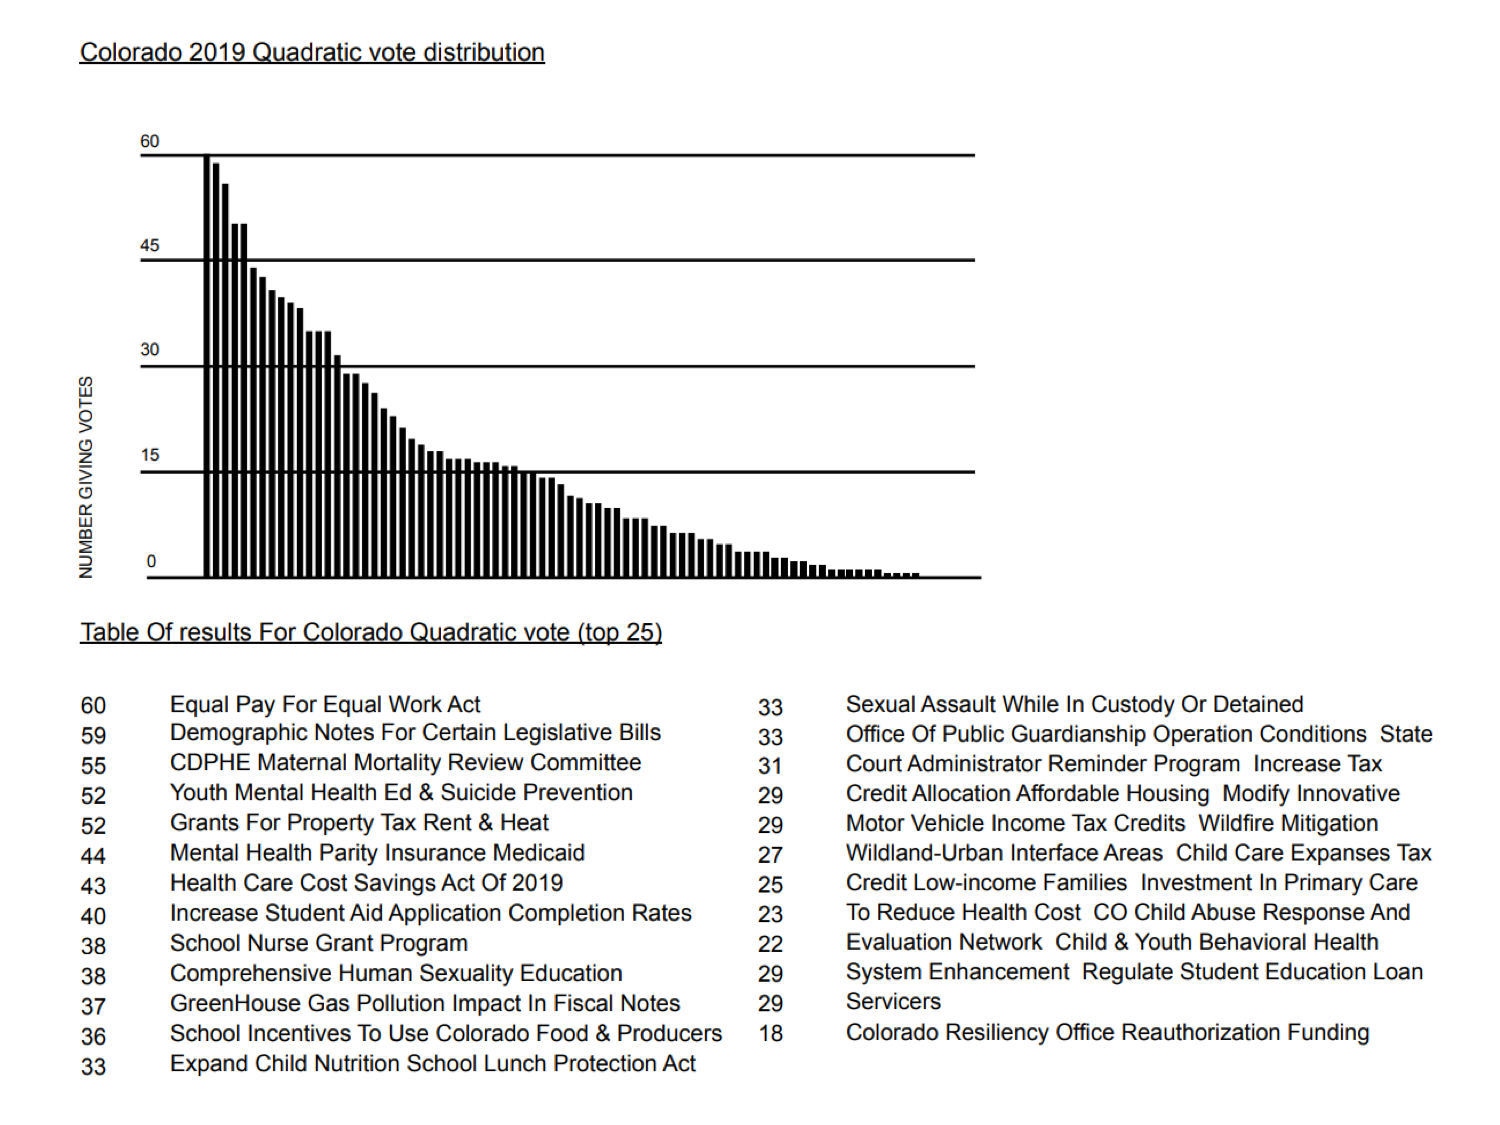
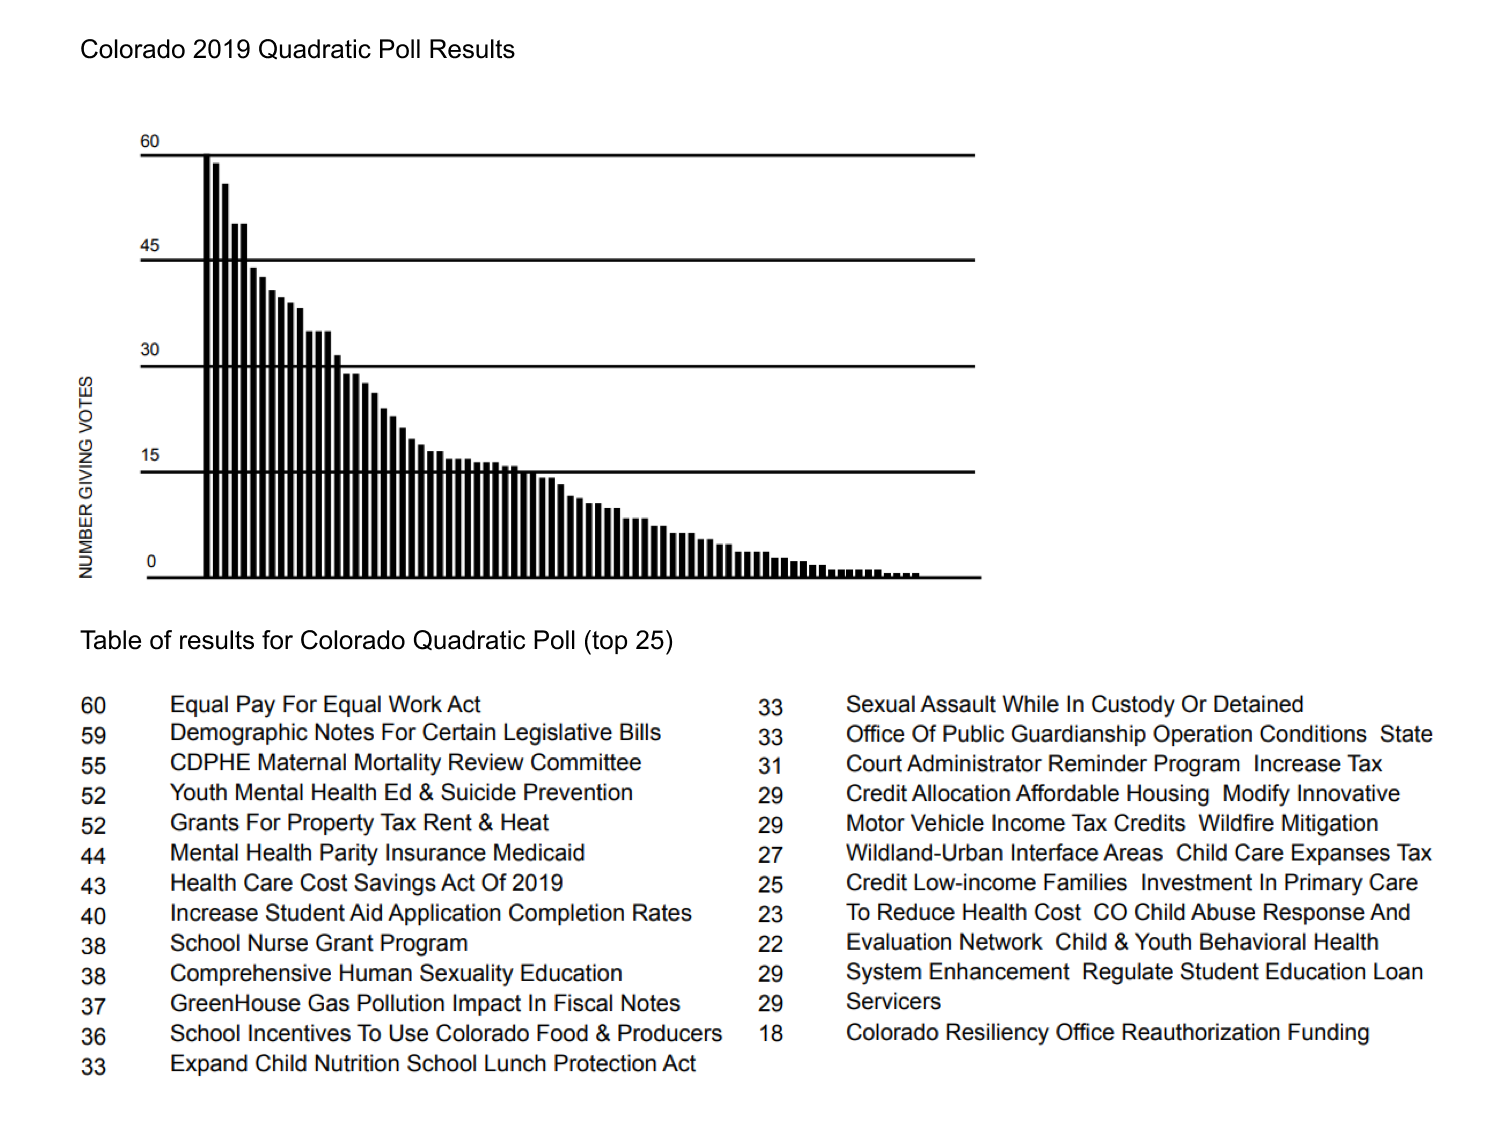
edit QV language

Changed region(s): [[0.0613, 0.5289, 0.46, 0.5911], [0.0307, 0.0311, 0.368, 0.0622]]

diff --git a/src/site/media/announcements/2023-04-11_colorado-qv-wiki.md b/src/site/media/announcements/2023-04-11_colorado-qv-wiki.md
@@ -17,7 +17,7 @@ Working with RadicalxChange Foundation and Democracy Earth Foundation, the Democ
 
 In June 2020, officials in Colorado’s executive branch decided to bring QV into a new context. As part of an effort led by Ben Henderson and Hana Sayeed from the Governor’s Office of Operations, RadicalxChange Foundation implemented a process by which interagency working groups used QV to prioritize their yearly goals, using basic [spreadsheet templates](https://drive.google.com/drive/folders/1trnAJ1XOLyZk-0mgedZ3G98MQH3xrL0m?usp=sharing) from RadicalxChange Foundation.
 
-The process began with a test vote on a moot issue – favorite Colorado sports teams – to familiarize the voters with QV. Then, working group participants had an opportunity to argue and hear arguments for different proposed ‘20/’21 priorities. Finally, they used live QV ballots to help determine what the group felt most strongly about.
+The process began with a test poll on a moot issue – favorite Colorado sports teams – to familiarize the participants with QV. Then, working group participants had an opportunity to argue and hear arguments for different proposed ‘20/’21 priorities. Finally, they used live QV ballots to help determine what the group felt most strongly about.
 
 Seeing the benefits of the process in these interagency groups, several agency leaders began using it for group decisions in other contexts.
 
@@ -25,13 +25,13 @@ Two examples of this are that a) Colorado’s Department of Higher Education ado
 
 The pandemic created enormous challenges for Colorado’s citizens and government, but QV helped Colorado more nimbly respond to them. It proved a useful way to structure decisions involving complex tradeoffs, and it appears likely that it will remain a vital tool for state governance.[^3]
 
-In some of the decisions taken with QV, the results of the interagency votes were not ultimately adopted by the Governor’s office. This was disappointing for some participants and points to unavoidable challenges around using democratic systems to make decisions when the final authority rests elsewhere.
+In some of the decisions taken with QV, the results of the interagency polls were not ultimately adopted by the Governor’s office. This was disappointing for some participants and points to unavoidable challenges around using democratic systems to make decisions when the final authority rests elsewhere.
 
 ## Legislature Utilizes New RxC QV application in 2021
 
 In Spring 2021, the Democratic Caucus of the House of Representatives used QV once again to prioritize proposed spending bills. This time, the Democratic Caucus of the Senate conducted their own QV poll as well.
 
-With a limited budget of $50 million and over 80 bills to consider, QV helped Caucus leaders gather detailed information about the group’s collective priorities. The results were both anonymous and non-binding—these weren’t official votes cast on the record.
+With a limited budget of $50 million and over 80 bills to consider, QV helped Caucus leaders gather detailed information about the group’s collective priorities. The results were both anonymous and non-binding—these were not official votes cast on the record.
 
 Though the Democratic Caucus organized the Preference Poll, they maintained that their objective was efficiency, not partisanship: “I also offered this up to the Republicans,” Hansen said on a RadicalxChange livestream.[^4]
 
@@ -43,7 +43,7 @@ After the 2021 poll, Senator Hansen stated his intention that QV should become a
 
 In Spring 2022, the Democratic Caucus of the House of Representatives, the Democratic Caucus of the Senate, and the Republican Caucus of the Senate all used the [RxC QV](https://quadraticvote.radicalxchange.org/) web application to hold internal polls to aid deliberations over the appropriations process. Procedurally, the polling methodology was roughly the same as in 2021.
 
-The 2022 polls featured improvements to the RxC QV interface. To make QV more intuitive for users, the RadicalxChange team added new interactive animations representing voice credits as square blocks that can be grouped together and spent on effective votes.
+The 2022 polls featured improvements to the RxC QV interface. To make QV more intuitive for users, the RadicalxChange team added new interactive animations representing voice credits as square blocks that can be grouped together and spent to express preference for options in the poll.
 
 ![RxC QV interface represents voice credits as blocks](/images/blog/qv-blocks.png)
 
